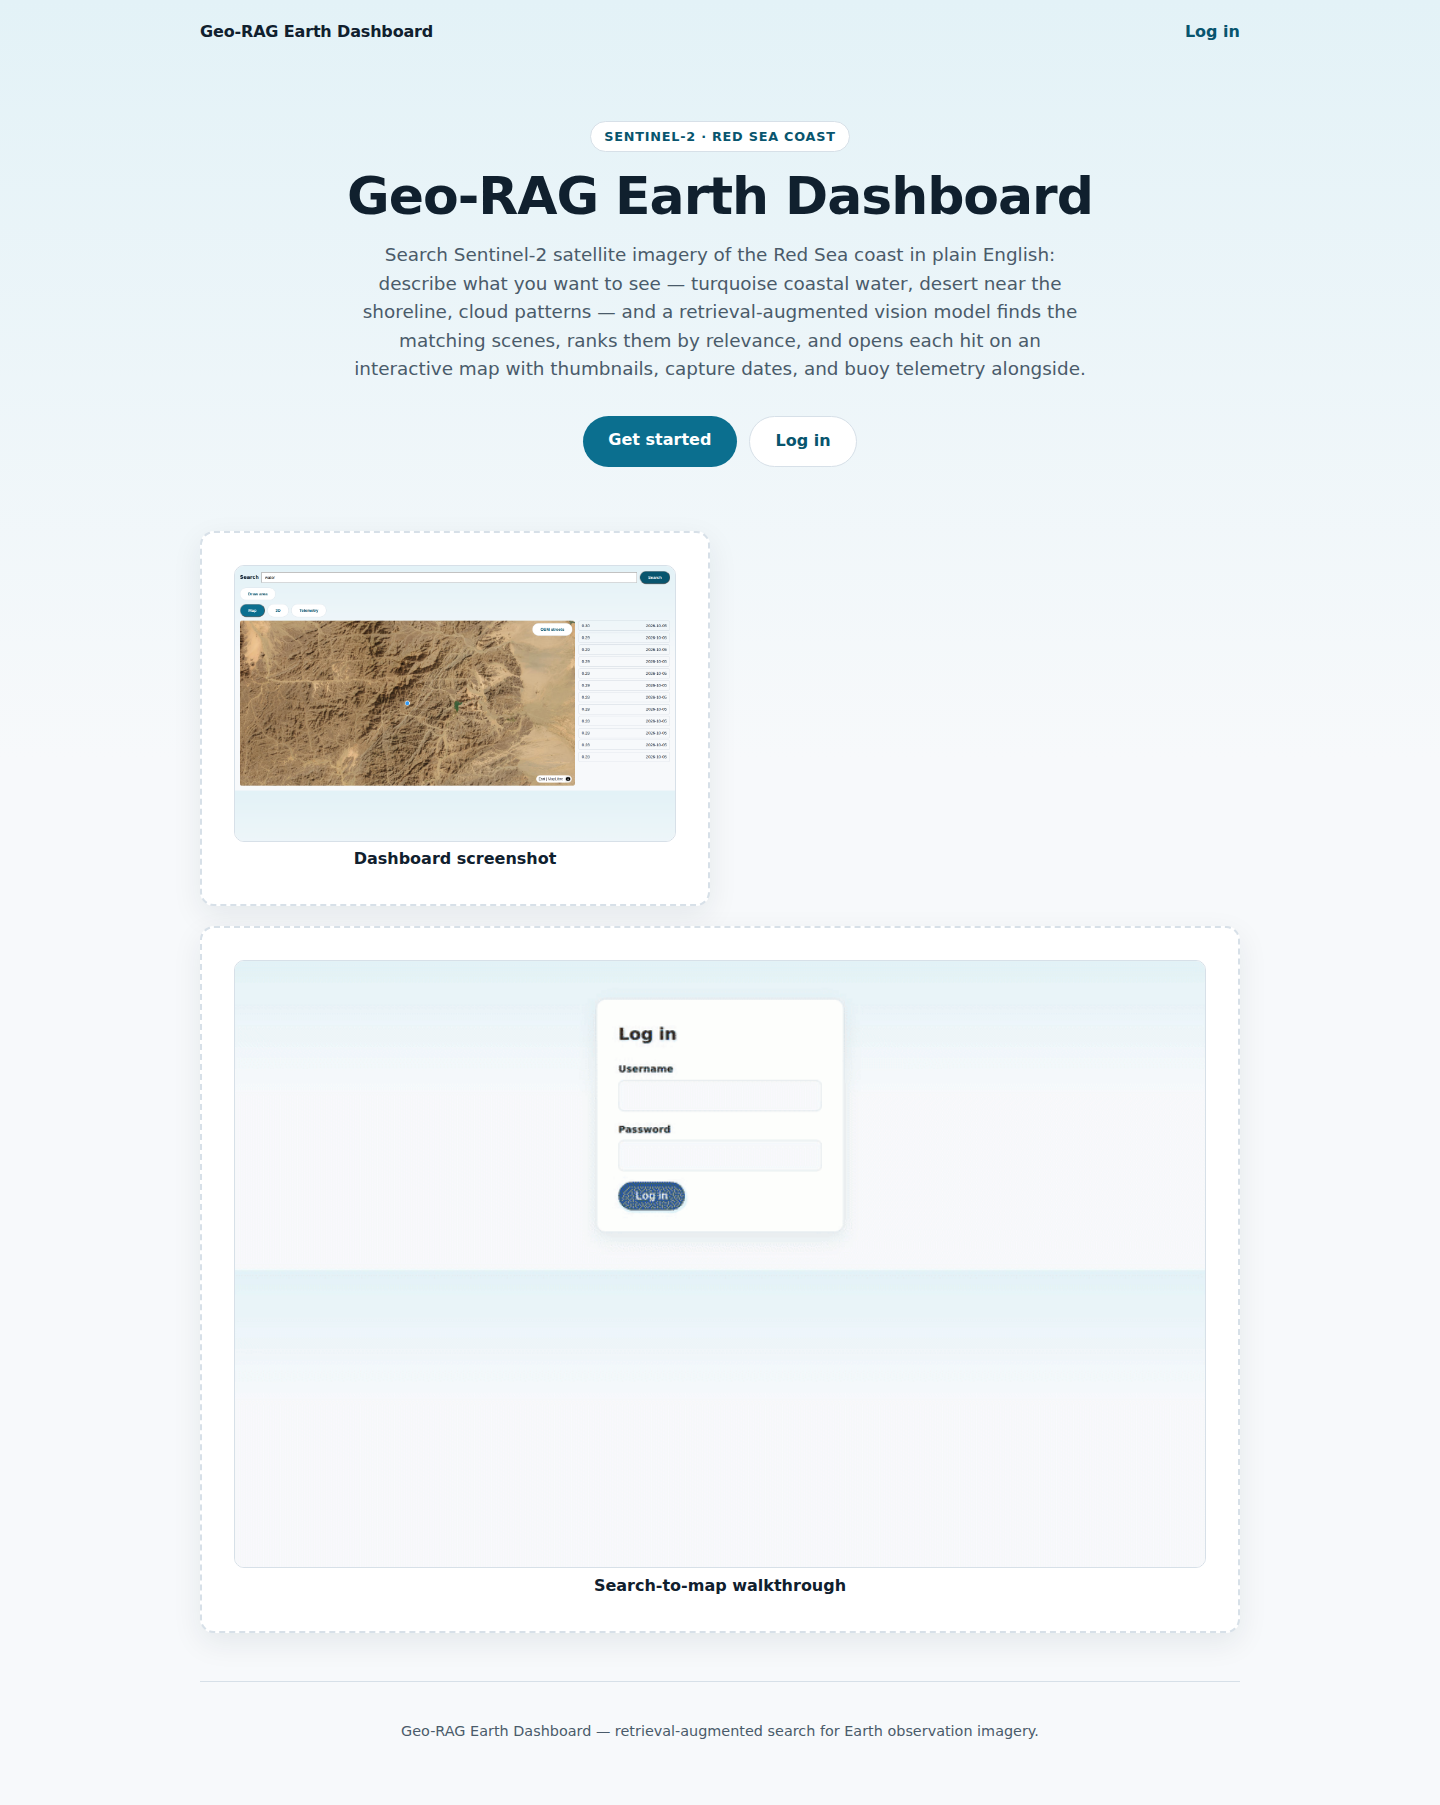
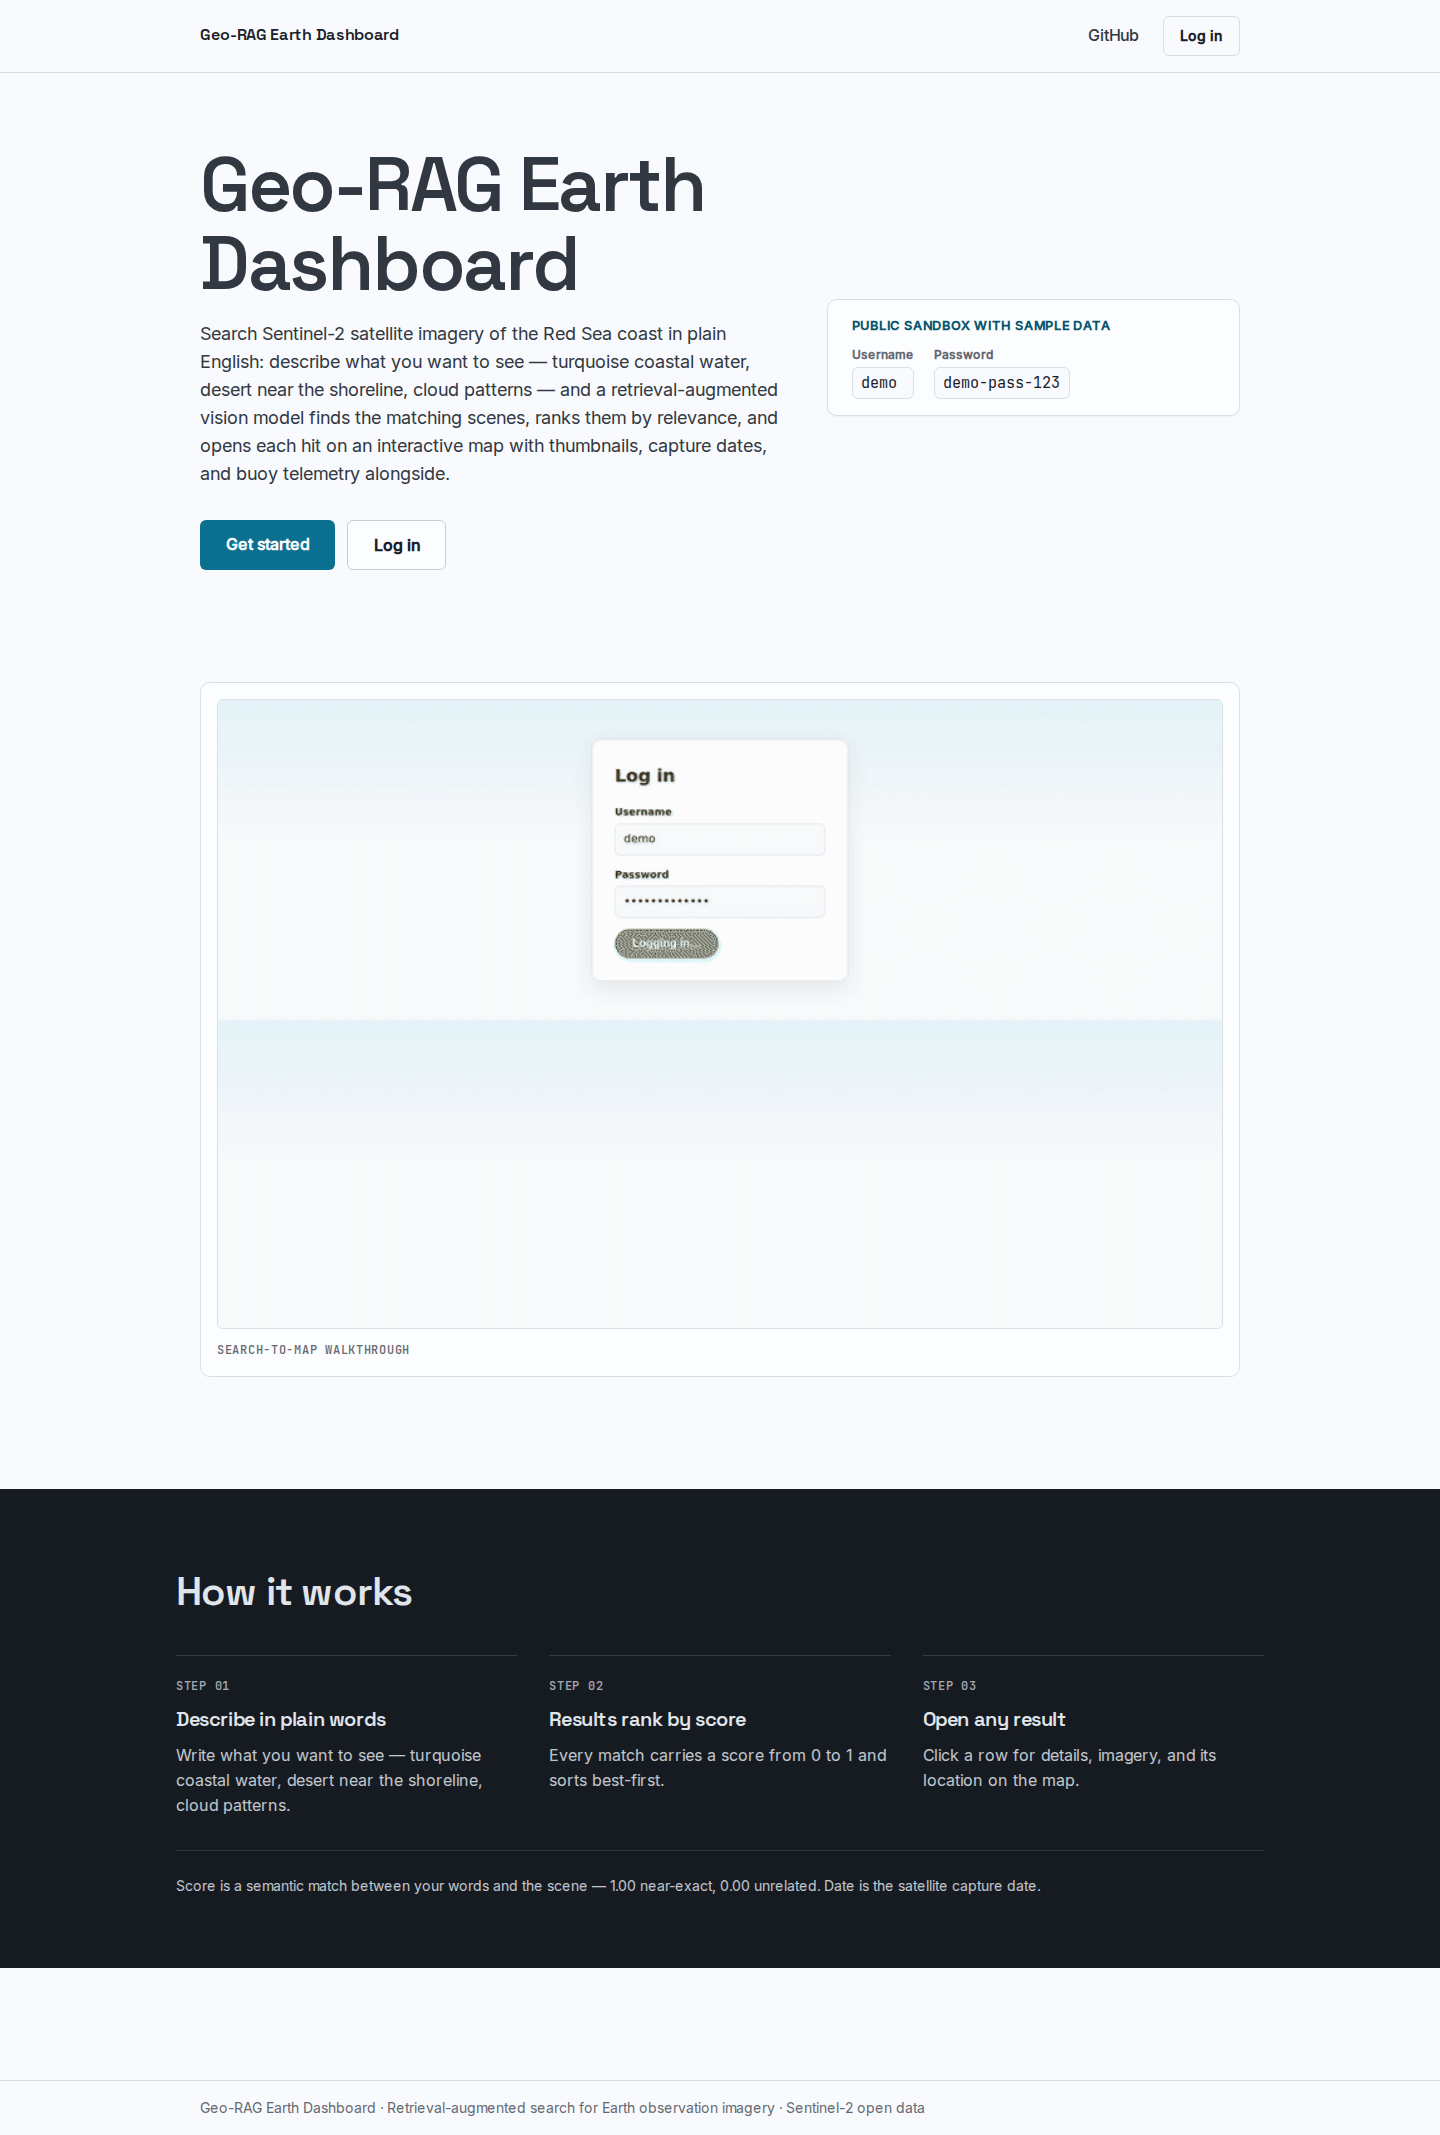
feat: UI/UX redesign integration — e2e coverage, regenerated assets
Extend the e2e spec with the two new user flows (first-run guide +
suggestion chips → results; polygon draw → POST /search/polygon 200),
extracting the proven demo login into a shared local helper. Record
fresh screenshots + demo.gif from the rebuilt stack (dual-written to
docs/ and apps/web/public/, md5-verified identical). README gains the
next/font/google build-time network note.

diff --git a/apps/web/e2e/dashboard.spec.ts b/apps/web/e2e/dashboard.spec.ts
@@ -39,6 +39,17 @@ function layerFeatureCount(page: import("@playwright/test").Page, layer: string)
   }, layer);
 }
 
+/** The proven demo login — shared by every flow in this spec (Task 10). */
+async function login(page: import("@playwright/test").Page) {
+  await page.goto("/login");
+  await page.getByLabel("Username").fill("demo");
+  await page.getByLabel("Password").fill("demo-pass-123");
+  await page.getByRole("button", { name: "Log in", exact: true }).click();
+  await expect(page).toHaveURL(/\/dashboard$/);
+  const searchInput = page.getByRole("searchbox", { name: "Search" });
+  await expect(searchInput).toBeVisible();
+}
+
 test("dashboard: login → search → detail → bbox draw → telemetry chart", async ({
   page,
 }) => {
@@ -78,13 +89,8 @@ test("dashboard: login → search → detail → bbox draw → telemetry chart",
   );
 
   // ── 1. login (demo credentials) ─────────────────────────────────────────
-  await page.goto("/login");
-  await page.getByLabel("Username").fill("demo");
-  await page.getByLabel("Password").fill("demo-pass-123");
-  await page.getByRole("button", { name: "Log in", exact: true }).click();
-  await expect(page).toHaveURL(/\/dashboard$/);
+  await login(page);
   const searchInput = page.getByRole("searchbox", { name: "Search" });
-  await expect(searchInput).toBeVisible();
 
   // ── 2. type a query → ranked results appear ─────────────────────────────
   await searchInput.fill("water");
@@ -193,4 +199,39 @@ test("dashboard: login → search → detail → bbox draw → telemetry chart",
   // Spec §6: the security headers never broke the app — no CSP refusal
   // (script/style/img/connect/worker) was logged across the whole flow.
   expect(cspViolations).toEqual([]);
+});
+
+test("first-run guide and suggestion chips lead to results", async ({ page }) => {
+  await login(page);
+  // Guide visible before any search (Review Focus #2)
+  await expect(page.getByRole("heading", { name: /how this works/i })).toBeVisible();
+  // Chip → results (exactly one search POST)
+  const searchPromise = page.waitForResponse((r) => r.url().includes("/api/search/vector") && r.request().method() === "POST");
+  await page.getByRole("button", { name: "turquoise coastal water" }).first().click();
+  await searchPromise;
+  await expect(page.getByRole("heading", { name: /how this works/i })).toHaveCount(0);
+  await expect(page.getByTestId("result-row").first()).toBeVisible(); // testid added in Task 5's ResultsPanel step
+});
+
+test("polygon draw searches an area", async ({ page }) => {
+  await login(page);
+  await page.getByRole("button", { name: "Draw polygon" }).click();
+  await page.locator(".maplibregl-canvas").waitFor({ state: "visible" });
+  const canvas = page.locator(".maplibregl-canvas");
+  const box = (await canvas.boundingBox())!;
+  // Sentinel instead of a blind timeout (finding 14 / Review Focus #5): click 1,
+  // then WAIT for the status strip to report the first vertex — that text can only
+  // appear if the click registered on a loaded style, so a slow cold stack fails
+  // loudly here instead of silently no-op'ing every vertex.
+  await canvas.click({ position: { x: box.width * 0.45, y: box.height * 0.40 } });
+  // exact pattern: only the POST-click-1 status ("1 vertex — …") matches; the
+  // pre-click "0 vertices" text does not (Task 7 pins the format)
+  await expect(page.getByRole("status").filter({ hasText: /^1 vertex —/ }).first()).toBeVisible({ timeout: 15_000 });
+  for (const [fx, fy] of [[0.60, 0.40], [0.55, 0.55]]) {
+    await canvas.click({ position: { x: box.width * fx, y: box.height * fy } });
+  }
+  const req = page.waitForResponse((r) => r.url().includes("/api/search/polygon"));
+  await page.keyboard.press("Enter");
+  const res = await req;
+  expect(res.status()).toBe(200);
 });

diff --git a/README.md b/README.md
@@ -35,7 +35,7 @@ docker compose logs db | grep "02-seed: restored"   # fixture dump restored
 # then open http://localhost:3000 and log in (below)
 ```
 
-Two honest notes on the first run:
+Three honest notes on the first run:
 
 - **First search downloads model weights.** The default `ENCODER=remoteclip`
   fetches the 578 MB RemoteCLIP checkpoint inside the api container on the
@@ -43,6 +43,10 @@ Two honest notes on the first run:
   is fast (measured p95 in [docs/benchmarks.md](docs/benchmarks.md)). Set
   `ENCODER=fake` in `.env` before `up` to run fully offline with a
   deterministic stand-in encoder.
+- **Fonts are fetched at build time.** `next/font/google` pulls Space
+  Grotesk, Inter and JetBrains Mono during the web build —
+  `docker compose build` / `npm run build` need network once (cached
+  afterwards).
 - `docker compose down` stops the stack; `docker compose down -v &&
   docker compose up -d` resets the database and re-restores the fixture
   dump.
